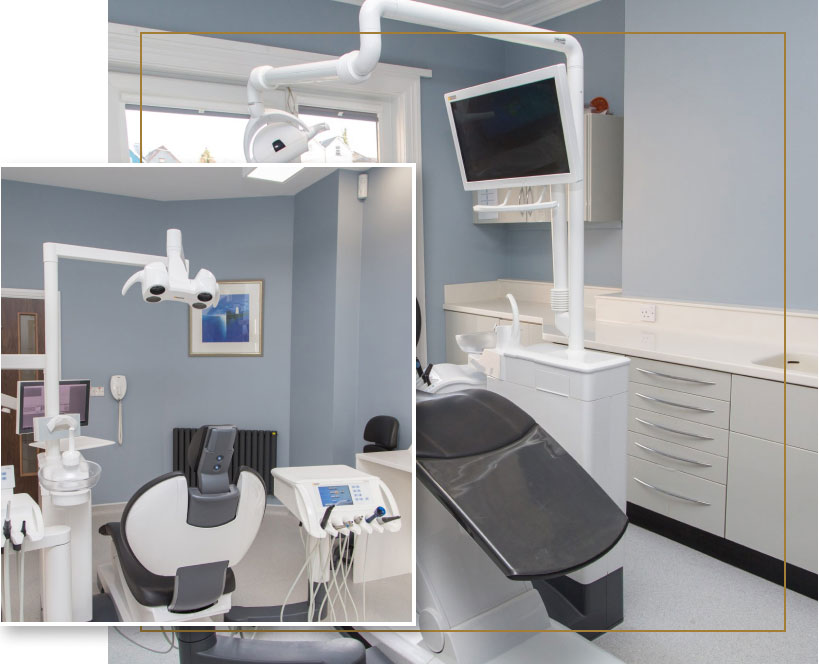
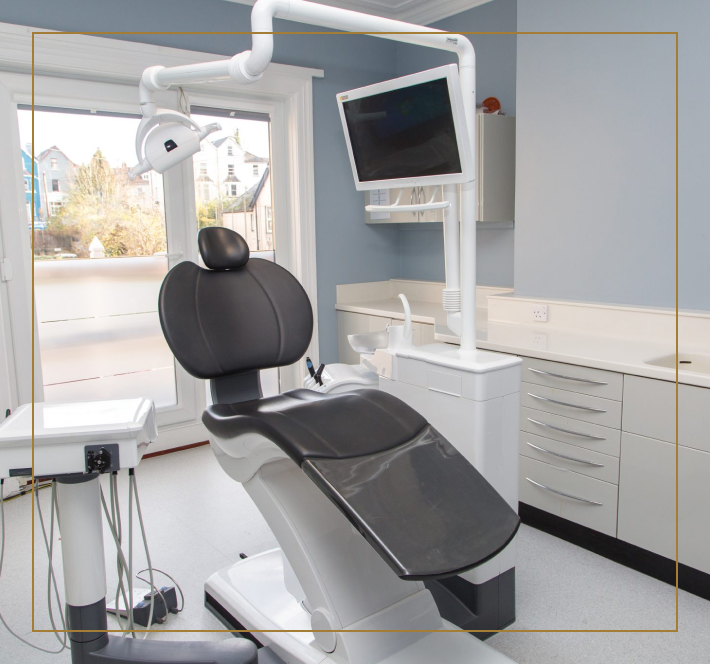
..

diff --git a/themes/coxa/about.html b/themes/coxa/about.html
@@ -240,7 +240,11 @@
                   <div class="abtis-img-text-row-inr">
                     <div class="abtis-img-txt-col abtis-row-img">
                       <div class="abtis-row-img-inner">
-                        <img src="assets/images/about-us-intro-img-01.png" alt="">
+                        <img class="single-image"src="assets/images/about-us-intro-img-02.png" alt="">
+                        <div class="double-image">
+                          <img class="double-image-main" src="assets/images/about-us-intro-img-02.png" alt="">
+                          <img class="double-image-sub" src="assets/images/about-us-intro-img-03.png" alt="">
+                        </div>
                         <div class="abtis-row-main-img-cntrl">
                           <div class="abtis-row-main-img inline-bg" style="background-image: url(assets/images/about-us-intro-mn-img-01.jpg);">
                           </div>
@@ -471,7 +475,8 @@
           </div>
         </div>
       </section>
-      <section class="about-intro-sec">
+
+      <section class="about-intro-sec has-inline-bg">
         <div class="container">
           <div class="row">
             <div class="col-md-12">
@@ -479,7 +484,19 @@
                   <div class="abtis-img-text-row-inr">
                     <div class="abtis-img-txt-col abtis-row-img">
                       <div class="abtis-row-img-inner">
-                        <img src="assets/images/about-us-intro-img-02.jpg" alt="">
+                        <img class="single-image"src="assets/images/about-us-intro-img-02.jpg" alt="">
+                        <div class="double-image">
+                          <img class="double-image-main" src="assets/images/about-us-intro-img-02.png" alt="">
+                          <img class="double-image-sub" src="assets/images/about-us-intro-img-03.png" alt="">
+                        </div>
+                        <div class="abtis-row-main-img-cntrl">
+                          <div class="abtis-row-main-img inline-bg" style="background-image: url(assets/images/about-us-main-intro-img-02.jpg);">
+                          </div>
+                        </div>
+                        <div class="abtis-row-sub-img-cntlr">
+                          <div class="abtis-row-sub-img inline-bg" style="background-image: url(assets/images/about-us-intro-sub-img-01.jpg);">
+                          </div>
+                        </div>
                       </div>
                     </div>
                     <div class="abtis-img-txt-col abtis-row-text">
@@ -511,100 +528,6 @@
           </div>
         </div>
       </section> 
-
-      <section class="about-intro-sec single-image-module has-inline-bg">
-        <div class="container">
-          <div class="row">
-            <div class="col-md-12">
-                <div class="abtis-img-text-row abtis-lft-img-row">
-                  <div class="abtis-img-text-row-inr">
-                    <div class="abtis-img-txt-col abtis-row-img">
-                      <div class="abtis-row-img-inner">
-                        <img src="assets/images/about-us-intro-img-02.jpg" alt="">
-                        <div class="abtis-row-main-img-cntrl">
-                          <div class="abtis-row-main-img inline-bg" style="background-image: url(assets/images/about-us-intro-mn-img-01.jpg);">
-                          </div>
-                        </div>
-                      </div>
-                    </div>
-                    <div class="abtis-img-txt-col abtis-row-text">
-                      <div class="abtis-row-text-inr">
-                        <div class="diamond-module">
-                          <ul class="reset-list">
-                            <li>
-                              <i><img src="assets/images/sec-title-diamond.svg" alt=""></i>
-                            </li>
-                            <li>
-                              <i><img src="assets/images/sec-title-diamond.svg" alt=""></i>
-                            </li>
-                            <li>
-                              <i><img src="assets/images/sec-title-diamond.svg" alt=""></i>
-                            </li>
-                          </ul>
-                        </div>
-                        <h2 class="fl-h4">What makes us different?</h2>
-                        <p>Fermentum et tristique dictumst ipsum dolor turpis arcu nibh integer. Mauris volutpat dictum cras sagittis leo platea tincidunt. Scelerisque turpis tortor, purus nec eget mauris tempor lacus. Varius amet egestas cursus quam proin magna varius sit. Dui ut in massa nibh ut. Commodo et sapien semper imperdiet dolor nunc id sit consectetur. Fames amet, turpis in at in senectus, in felis amet euismod vitae potenti praesents.</p>
-                        <p>Aenean in sed mi malesuada quis purus facilisis vel senectus. Purus aliquet consequat dignissim aliquam bibendum pulvinar faucibus et enim. Sapien faucibus mattis quis nunc vulputate habitant scelerisque. Non tincidunt enim adipiscing lectus euismod turpis vel non massa, ultricies condimentum dui.</p>
-                        <div class="abtis-intro-des-btn">
-                          <a class="cdc-btn" href="#">See our equipment</a>
-                        </div>
-                      </div>                          
-                    </div>
-                  </div>
-                </div>
-            </div>
-          </div>
-        </div>
-      </section>  
-
-      <section class="about-intro-sec has-inline-bg double-image-module">
-        <div class="container">
-          <div class="row">
-            <div class="col-md-12">
-                <div class="abtis-img-text-row">
-                  <div class="abtis-img-text-row-inr">
-                    <div class="abtis-img-txt-col abtis-row-img">
-                      <div class="abtis-row-img-inner">
-                        <img src="assets/images/about-us-intro-img-01.png" alt="">
-                        <div class="abtis-row-main-img-cntrl">
-                          <div class="abtis-row-main-img inline-bg" style="background-image: url(assets/images/about-us-intro-mn-img-01.jpg);">
-                          </div>
-                        </div>
-                        <div class="abtis-row-sub-img-cntlr">
-                          <div class="abtis-row-sub-img inline-bg" style="background-image: url(assets/images/about-us-intro-sub-img-01.jpg);">
-                          </div>
-                        </div>
-                      </div>
-                    </div>
-                    <div class="abtis-img-txt-col abtis-row-text">
-                      <div class="abtis-row-text-inr">
-                        <div class="diamond-module">
-                          <ul class="reset-list">
-                            <li>
-                              <i><img src="assets/images/sec-title-diamond.svg" alt=""></i>
-                            </li>
-                            <li>
-                              <i><img src="assets/images/sec-title-diamond.svg" alt=""></i>
-                            </li>
-                            <li>
-                              <i><img src="assets/images/sec-title-diamond.svg" alt=""></i>
-                            </li>
-                          </ul>
-                        </div>
-                        <h2 class="fl-h4">Who we are</h2>
-                        <p>Fermentum et tristique dictumst ipsum dolor turpis arcu nibh integer. Mauris volutpat dictum cras sagittis leo platea tincidunt. Scelerisque turpis tortor, purus nec eget mauris tempor lacus. Varius amet egestas cursus quam proin magna varius sit. Dui ut in massa nibh ut. Commodo et sapien semper imperdiet dolor nunc id sit consectetur. Fames amet, turpis in at in senectus, in felis amet euismod vitae potenti praesents.</p>
-                        <p>Aenean in sed mi malesuada quis purus facilisis vel senectus. Purus aliquet consequat dignissim aliquam bibendum pulvinar faucibus et enim. Sapien faucibus mattis quis nunc vulputate habitant scelerisque. Non tincidunt enim adipiscing lectus euismod turpis vel non massa, ultricies condimentum dui.</p>
-                        <div class="abtis-intro-des-btn">
-                          <a class="cdc-btn" href="#">See our practice</a>
-                        </div>
-                      </div>                          
-                    </div>
-                  </div>
-                </div>
-            </div>
-          </div>
-        </div>
-      </section>
 
       <section class="why-choose-sec inline-bg" style="background-image: url(assets/images/why-choose-bg-img.jpg);">
         <div class="container">

diff --git a/themes/coxa/assets/css/_about.css b/themes/coxa/assets/css/_about.css
@@ -89,19 +89,47 @@
 
 
 
-.double-image-module .abtis-row-img-inner{
+.has-inline-bg.double-image-module .abtis-row-img-inner{
 	padding-left: 90px;
 }
 
-.has-inline-bg .abtis-row-img-inner > img,
-.abtis-row-main-img-cntrl{
-	display: none;
-}
+/*.has-inline-bg .abtis-row-img-inner > img,*/
+
 .has-inline-bg .abtis-row-main-img-cntrl,
-.has-inline-bg .abtis-row-sub-img-cntlr,
-.abtis-row-img-inner > img{
+.has-inline-bg.double-image-module .abtis-row-sub-img-cntlr,
+/*.abtis-row-img-inner > img,*/
+.single-image,
+.double-image-module .double-image{
 	display: block;
 }
+.abtis-row-main-img-cntrl,
+.double-image,
+.double-image-module .single-image,
+.has-inline-bg .single-image,
+.has-inline-bg .double-image{
+	display: none;
+}
+
+
+.double-image .double-image-sub {
+    position: absolute;
+    left: 0;
+    bottom: 11px;
+    max-width: 349px;
+}
+.double-image {
+    position: relative;
+    padding-left: 90px;
+}
+.abtis-lft-img-row .double-image{
+	padding-left: 0px;
+	padding-right: 90px;
+}
+.abtis-lft-img-row .double-image .double-image-sub {
+    right: -10px;
+    left: initial;
+}
+
 .abtis-row-main-img {
     height: 515px;
     /*width: 547px;*/
@@ -151,8 +179,9 @@
 	}
 	.double-image-module .abtis-lft-img-row .abtis-row-img-inner{
 		margin-left: -60px;
+		margin-right: 0;
 	}
-	.double-image-module .abtis-row-img-inner{
+	.has-inline-bg.double-image-module .abtis-row-img-inner{
 		padding-left: 105px;
 	}
 	.abtis-row-sub-img-cntlr {
@@ -161,5 +190,15 @@
 	}
 	.abtis-row-main-img {
 	    height: 590px;
+	}
+	.double-image .double-image-sub {
+	    max-width: 402px;
+	}
+	.double-image {
+	    padding-left: 105px;
+	}
+	.abtis-lft-img-row .double-image{
+		padding-left: 0px;
+		padding-right: 105px;
 	}
 }

diff --git a/themes/coxa/our-equionment.html b/themes/coxa/our-equionment.html
@@ -205,7 +205,8 @@
     </section>
 
     <div class="our-equionment-page-con-cntlr">
-      <section class="about-intro-sec has-inline-bg">
+     
+      <section class="about-intro-sec has-inline-bg double-image-module">
         <div class="container">
           <div class="row">
             <div class="col-md-12">
@@ -213,7 +214,11 @@
                   <div class="abtis-img-text-row-inr">
                     <div class="abtis-img-txt-col abtis-row-img">
                       <div class="abtis-row-img-inner">
-                        <img src="assets/images/our-equionment-intro-img-01.jpg" alt="">
+                        <img class="single-image"src="assets/images/our-equionment-intro-img-01.jpg" alt="">
+                        <div class="double-image">
+                          <img class="double-image-main" src="assets/images/our-equionment-intro-img-01.jpg" alt="">
+                          <img class="double-image-sub" src="assets/images/our-equionment-intro-img-02.png" alt="">
+                        </div>
                         <div class="abtis-row-main-img-cntrl">
                           <div class="abtis-row-main-img inline-bg" style="background-image: url(assets/images/our-equionment-main-intro-img-01.jpg);">
                           </div>
@@ -252,7 +257,8 @@
             </div>
           </div>
         </div>
-      </section> 
+      </section>
+
       <section class="treatments-sec">
         <div class="container">
           <div class="row">

diff --git a/themes/coxa/assets/css/_new-patients.css b/themes/coxa/assets/css/_new-patients.css
@@ -18,8 +18,9 @@
 .patients-intro-sec .abtis-row-text-inr p:not(:last-of-type){
 	margin-bottom: 20px;
 }
-.patient-page-con-cntlr .abtis-lft-img-row .abtis-row-img-inner{
+.abtis-lft-img-row .abtis-row-img-inner{
 	margin-left: -60px;
+	margin-right: 0;
 }
 .has-inline-bg.double-image-module .abtis-lft-img-row .abtis-row-img-inner{
 	padding-left: 0;
@@ -32,7 +33,11 @@
 
 
 @media(min-width: 1600px){
-	.patient-page-con-cntlr .abtis-lft-img-row .abtis-row-img-inner{
+	.abtis-lft-img-row .abtis-row-img-inner{
 		margin-left: -160px;
+	}
+	.has-inline-bg.double-image-module .abtis-lft-img-row .abtis-row-img-inner{
+		padding-left: 0;
+		padding-right: 105px;
 	}
 }

diff --git a/themes/coxa/new-patients.html b/themes/coxa/new-patients.html
@@ -222,7 +222,7 @@
       </div>
     </section>
     <div class="patient-page-con-cntlr">       
-      <section class="patients-intro-sec has-inline-bg">
+      <section class="patients-intro-sec double-image-module">
         <div class="container">
           <div class="row">
             <div class="col-md-12">
